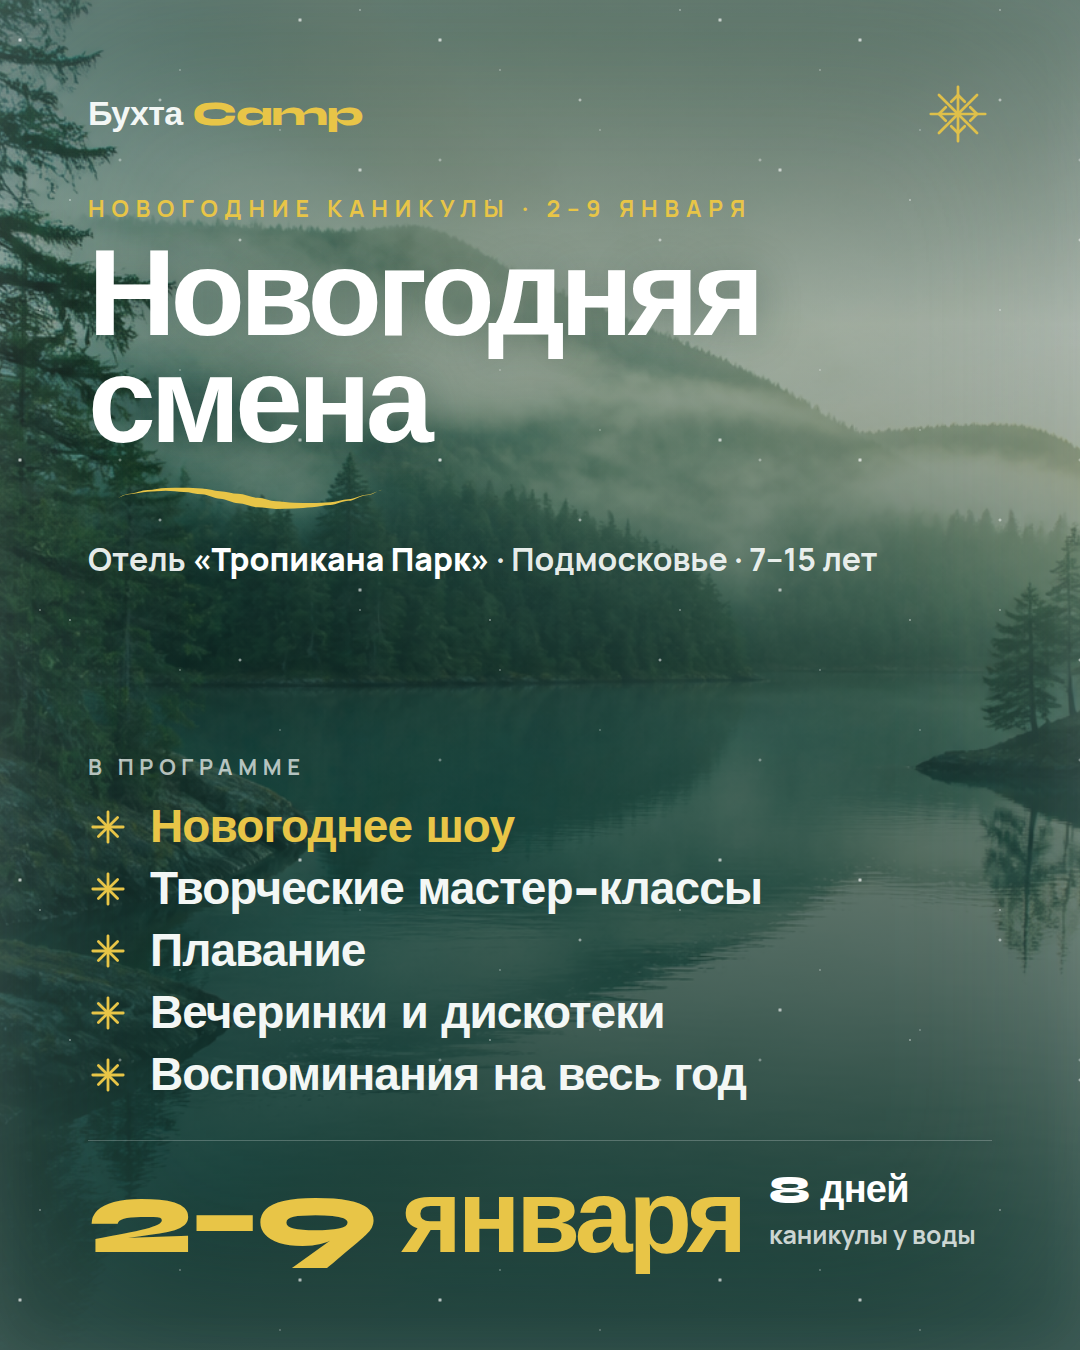
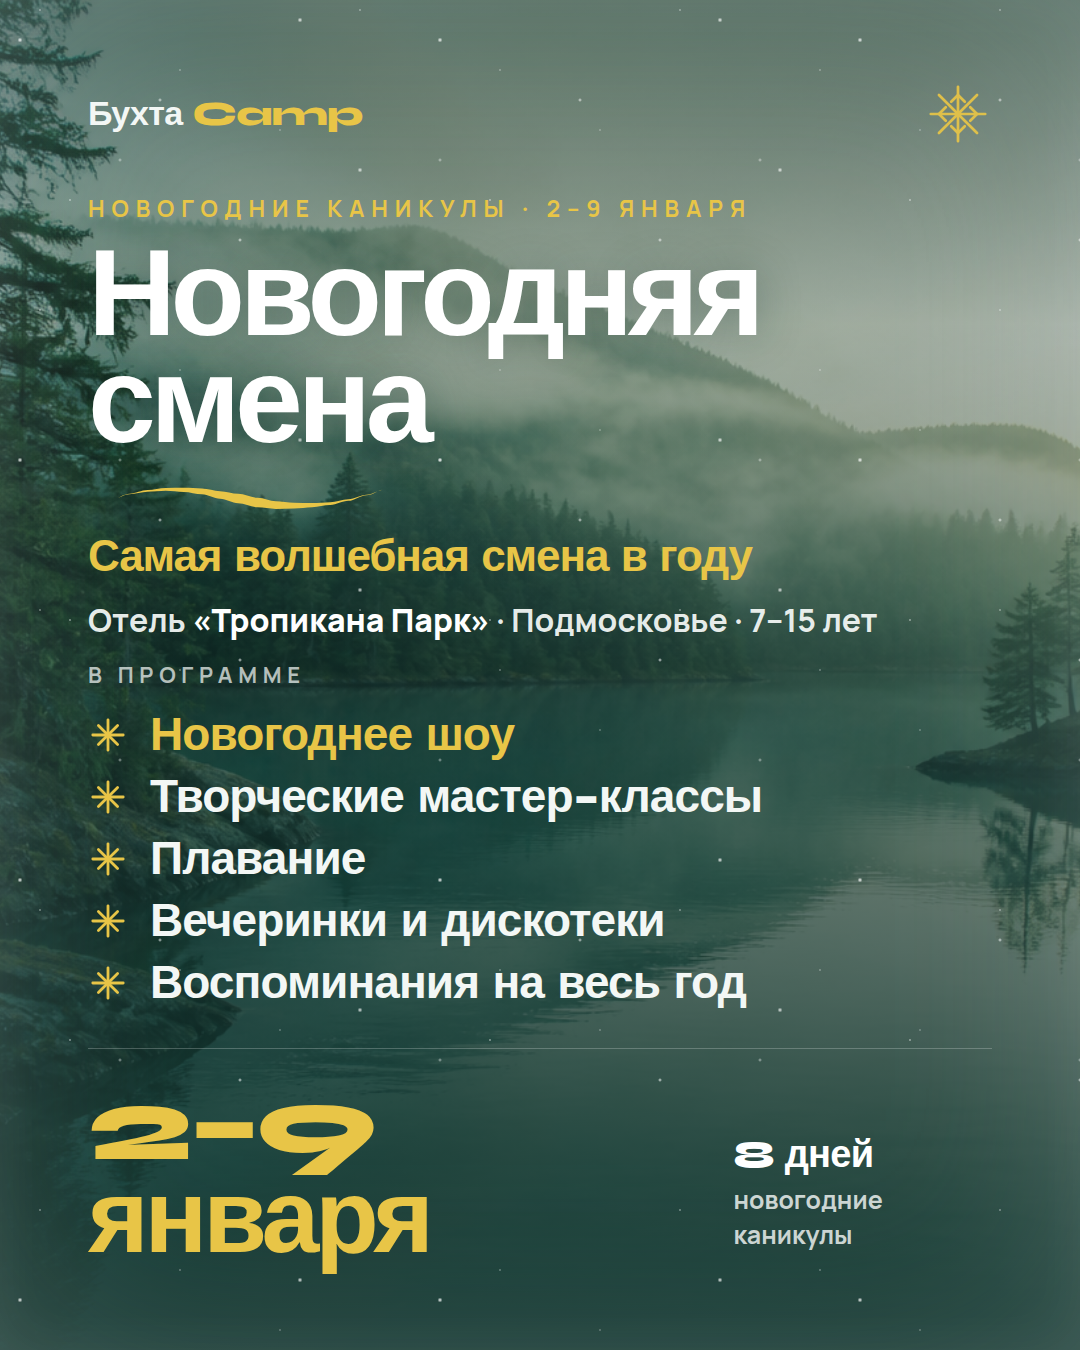
NY afisha: drop 'у воды' phrase, add 'Самая волшебная смена в году'

Changed region(s): [[0.0611, 0.4044, 0.9167, 0.9644]]

diff --git a/assets/instagram/html/afisha-ny-story.html b/assets/instagram/html/afisha-ny-story.html
@@ -106,8 +106,17 @@
       margin: 34px 0 0;
     }
     .wave svg { width: 100%; height: 100%; display: block; }
+    .tagline {
+      font-family: Syne, sans-serif;
+      font-weight: 800;
+      font-size: 56px;
+      line-height: 1.02;
+      letter-spacing: -0.025em;
+      color: #e8c547;
+      margin-top: 28px;
+    }
     .hotel {
-      margin-top: 30px;
+      margin-top: 22px;
       font-weight: 700;
       font-size: 40px;
       color: rgba(243,247,245,0.94);
@@ -201,6 +210,7 @@
           <path fill="currentColor" d="M28.00,47.91 C31.63,47.91 35.25,44.40 38.88,44.40 C42.50,44.40 46.13,42.24 49.76,42.24 C53.38,42.24 57.01,40.99 60.63,40.99 C64.26,40.99 67.88,40.88 71.51,40.88 C75.14,40.88 78.76,41.32 82.39,41.32 C86.01,41.32 89.64,42.91 93.27,42.91 C96.89,42.91 100.52,44.43 104.14,44.43 C108.05,44.43 111.95,46.87 115.86,46.87 C119.48,46.87 123.11,48.99 126.73,48.99 C130.36,48.99 133.99,49.84 137.61,49.84 C141.24,49.84 144.86,50.01 148.49,50.01 C152.12,50.01 155.74,49.51 159.37,49.51 C162.99,49.51 166.62,47.72 170.24,47.72 C173.87,47.72 177.50,45.01 181.12,45.01 C184.75,45.01 188.37,41.83 192.00,41.83 L192.00,41.83 C188.37,41.83 184.75,45.34 181.12,45.34 C177.50,45.34 173.87,48.71 170.24,48.71 C166.62,48.71 162.99,51.19 159.37,51.19 C155.74,51.19 152.12,52.51 148.49,52.51 C144.86,52.51 141.24,53.29 137.61,53.29 C133.99,53.29 130.36,53.53 126.73,53.53 C123.11,53.53 119.48,52.61 115.86,52.61 C111.95,52.61 108.05,50.17 104.14,50.17 C100.52,50.17 96.89,47.44 93.27,47.44 C89.64,47.44 86.01,44.77 82.39,44.77 C78.76,44.77 75.14,43.38 71.51,43.38 C67.88,43.38 64.26,42.66 60.63,42.66 C57.01,42.66 53.38,43.23 49.76,43.23 C46.13,43.23 42.50,44.73 38.88,44.73 C35.25,44.73 31.63,47.91 28.00,47.91 Z"/>
         </svg>
       </div>
+      <p class="tagline">Самая волшебная смена в году</p>
       <p class="hotel">Отель <b>«Тропикана&nbsp;Парк»</b> · Подмосковье · <span style="white-space:nowrap">7–15 лет</span></p>
 
       <div class="spacer"></div>
@@ -233,7 +243,7 @@
         <div class="date-big">2–9 января</div>
         <div class="date-meta">
           <div class="d1">8 дней</div>
-          <div class="d2">каникулы у воды</div>
+          <div class="d2">новогодние каникулы</div>
         </div>
       </div>
     </div>

diff --git a/assets/instagram/html/afisha-ny-post.html b/assets/instagram/html/afisha-ny-post.html
@@ -107,8 +107,17 @@
       margin: 26px 0 0;
     }
     .wave svg { width: 100%; height: 100%; display: block; }
+    .tagline {
+      font-family: Syne, sans-serif;
+      font-weight: 800;
+      font-size: 44px;
+      line-height: 1.02;
+      letter-spacing: -0.025em;
+      color: #e8c547;
+      margin-top: 22px;
+    }
     .hotel {
-      margin-top: 24px;
+      margin-top: 18px;
       font-weight: 700;
       font-size: 32px;
       color: rgba(243,247,245,0.94);
@@ -203,6 +212,7 @@
           <path fill="currentColor" d="M28.00,47.91 C31.63,47.91 35.25,44.40 38.88,44.40 C42.50,44.40 46.13,42.24 49.76,42.24 C53.38,42.24 57.01,40.99 60.63,40.99 C64.26,40.99 67.88,40.88 71.51,40.88 C75.14,40.88 78.76,41.32 82.39,41.32 C86.01,41.32 89.64,42.91 93.27,42.91 C96.89,42.91 100.52,44.43 104.14,44.43 C108.05,44.43 111.95,46.87 115.86,46.87 C119.48,46.87 123.11,48.99 126.73,48.99 C130.36,48.99 133.99,49.84 137.61,49.84 C141.24,49.84 144.86,50.01 148.49,50.01 C152.12,50.01 155.74,49.51 159.37,49.51 C162.99,49.51 166.62,47.72 170.24,47.72 C173.87,47.72 177.50,45.01 181.12,45.01 C184.75,45.01 188.37,41.83 192.00,41.83 L192.00,41.83 C188.37,41.83 184.75,45.34 181.12,45.34 C177.50,45.34 173.87,48.71 170.24,48.71 C166.62,48.71 162.99,51.19 159.37,51.19 C155.74,51.19 152.12,52.51 148.49,52.51 C144.86,52.51 141.24,53.29 137.61,53.29 C133.99,53.29 130.36,53.53 126.73,53.53 C123.11,53.53 119.48,52.61 115.86,52.61 C111.95,52.61 108.05,50.17 104.14,50.17 C100.52,50.17 96.89,47.44 93.27,47.44 C89.64,47.44 86.01,44.77 82.39,44.77 C78.76,44.77 75.14,43.38 71.51,43.38 C67.88,43.38 64.26,42.66 60.63,42.66 C57.01,42.66 53.38,43.23 49.76,43.23 C46.13,43.23 42.50,44.73 38.88,44.73 C35.25,44.73 31.63,47.91 28.00,47.91 Z"/>
         </svg>
       </div>
+      <p class="tagline">Самая волшебная смена в году</p>
       <p class="hotel">Отель <b>«Тропикана Парк»</b> · Подмосковье · 7–15 лет</p>
 
       <div class="spacer"></div>
@@ -235,7 +245,7 @@
         <div class="date-big">2–9 января</div>
         <div class="date-meta">
           <div class="d1">8 дней</div>
-          <div class="d2">каникулы у воды</div>
+          <div class="d2">новогодние каникулы</div>
         </div>
       </div>
     </div>
